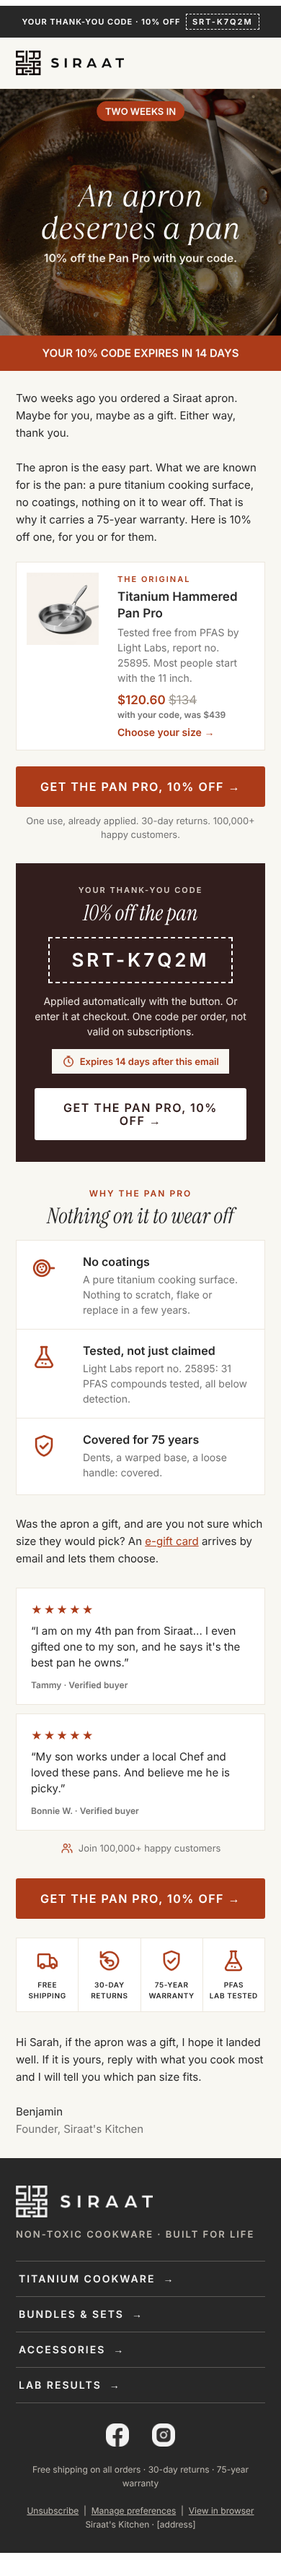
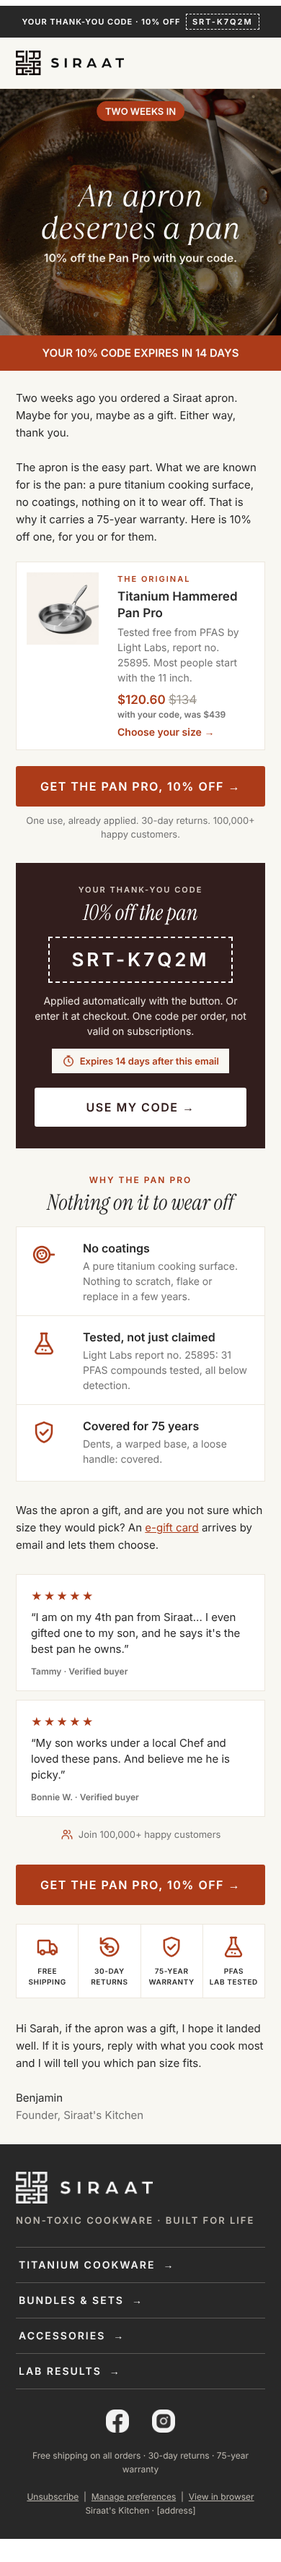
Tussenstand lopende agents
Claude-Session: https://claude.ai/code/session_01HjCaDE95ohEXY6DPZTSH67

diff --git a/klaviyo/templates/v3/post-purchase/p3-apron-preview.html b/klaviyo/templates/v3/post-purchase/p3-apron-preview.html
@@ -114,7 +114,7 @@
 
     <tr><td align="center" style="padding:20px 26px 30px 26px;">
       <table role="presentation" class="btnw" width="320" cellpadding="0" cellspacing="0" border="0" style="width:320px;"><tr>
-        <td align="center" bgcolor="#FFFFFF" style="background:#FFFFFF;border-radius:3px;"><a href="https://siraatskitchen.com/discount/SRT-K7Q2M?redirect=/products/original-siraat-100-pure-titanium-pan-with-hammered-pattern" style="display:block;padding:18px 20px;font-family:Inter,Arial,Helvetica,sans-serif;font-size:16px;line-height:18px;font-weight:600;letter-spacing:1.5px;color:#321E1D;text-decoration:none;text-transform:uppercase;">Get the Pan Pro, 10% off &rarr;</a></td>
+        <td align="center" bgcolor="#FFFFFF" style="background:#FFFFFF;border-radius:3px;"><a href="https://siraatskitchen.com/discount/SRT-K7Q2M?redirect=/products/original-siraat-100-pure-titanium-pan-with-hammered-pattern" style="display:block;padding:18px 20px;font-family:Inter,Arial,Helvetica,sans-serif;font-size:16px;line-height:18px;font-weight:600;letter-spacing:1.5px;color:#321E1D;text-decoration:none;text-transform:uppercase;">Use my code &rarr;</a></td>
       </tr></table>
     </td></tr>
   </table>
